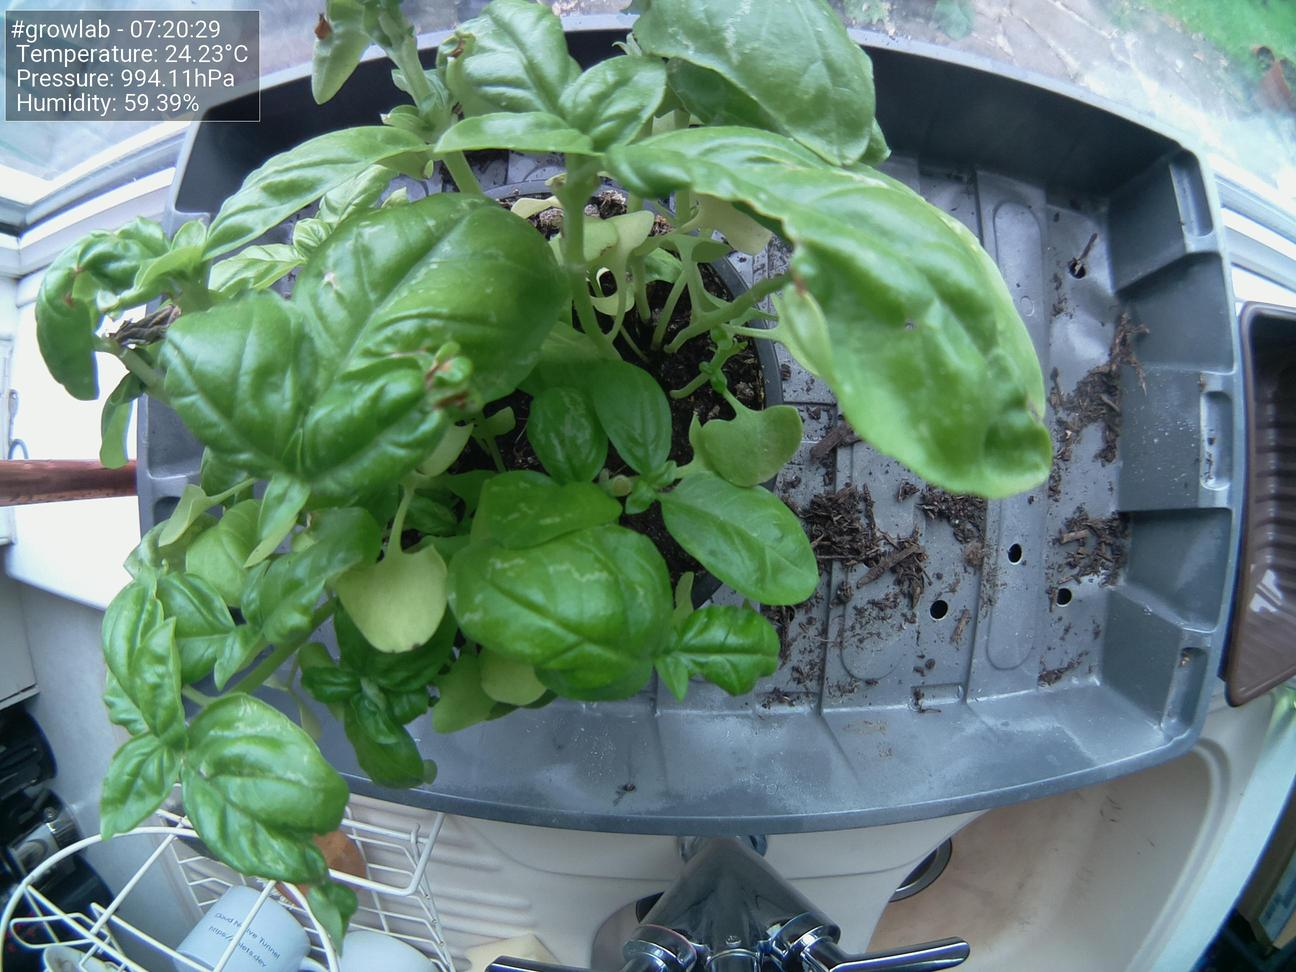
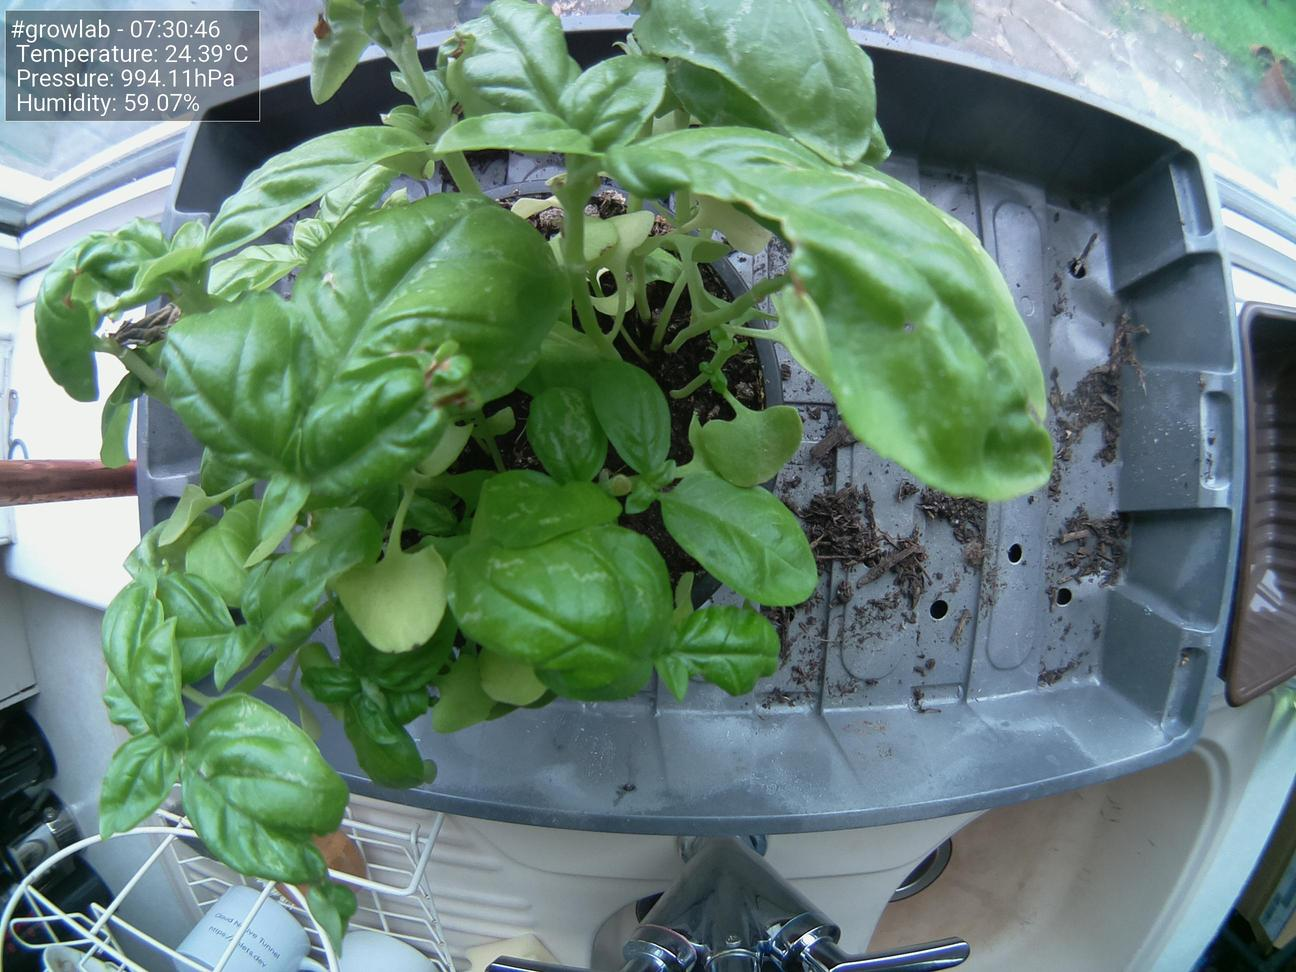
Update images at Fri  6 Aug 07:30:55 BST 2021

diff --git a/docs/index.html b/docs/index.html
@@ -47,15 +47,15 @@
                         <tbody>
                             <tr>
                                 <td>Time</td>
-                                <td>07:20:29</td>
+                                <td>07:30:46</td>
                             </tr>
                             <tr>
                                 <td>Temperature</td>
-                                <td>24.23°C</td>
+                                <td>24.39°C</td>
                             </tr>
                             <tr>
                                 <td>Humidity</td>
-                                <td>59.39%</td>
+                                <td>59.07%</td>
                             </tr>
                             <tr>
                                 <td>Pressure</td>
@@ -67,7 +67,7 @@
 
                 <h5>Latest image</h5>
                 <div style="width: 85%;">
-                            <img class="figure-img img-fluid rounded" src="./preview.jpg?uid=1628230837.8099718">
+                            <img class="figure-img img-fluid rounded" src="./preview.jpg?uid=1628231455.3405356">
                 </div>
             </div>
         </div>
